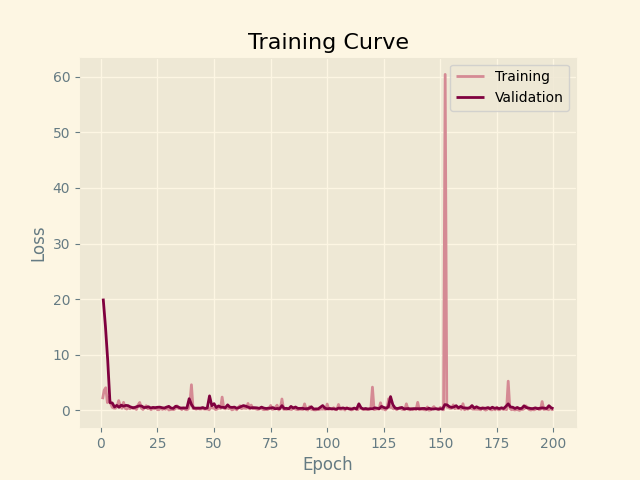
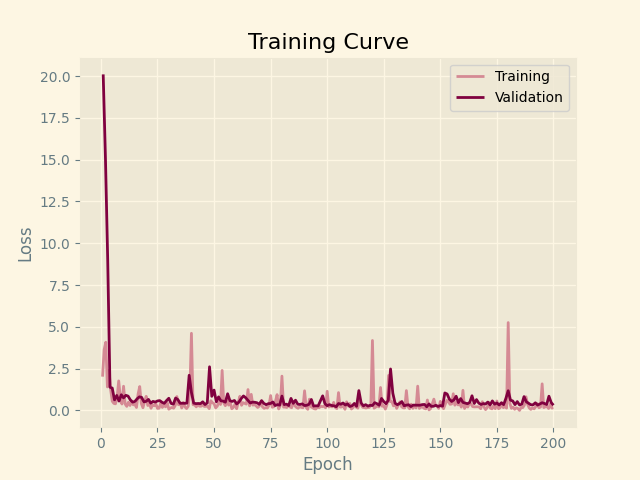
modified:   Graph_Data/viscosity/training_curve.png

diff --git a/graphs.py b/graphs.py
@@ -7,7 +7,7 @@ import scipy.stats
 import math
 
 # Which graphs to make
-parity_plot = True
+parity_plot = False
 training_curve = True
 quantity = "viscosity"
 
@@ -64,13 +64,15 @@ if training_curve:
     val_deletions = []
     
     #outlier removal
-    mean = np.mean(train_loss)
-    std_dev = np.std(train_loss)
+    mean_train = np.mean(train_loss)
+    std_train = np.std(train_loss)
+    mean_val = np.mean(val_loss)
+    std_val = np.std(val_loss)
 
     for i in range(len(train_loss)):
-        if math.isnan(train_loss[i]) or train_loss[i] > mean + 3 * std_dev:
+        if math.isnan(train_loss[i]) or train_loss[i] > mean_train + 3 * std_train:
             train_deletions.append(i)
-        if math.isnan(val_loss[i]):
+        if math.isnan(val_loss[i]) or val_loss[i] > mean_val + 3 * std_val:
             val_deletions.append(i)
     
 
